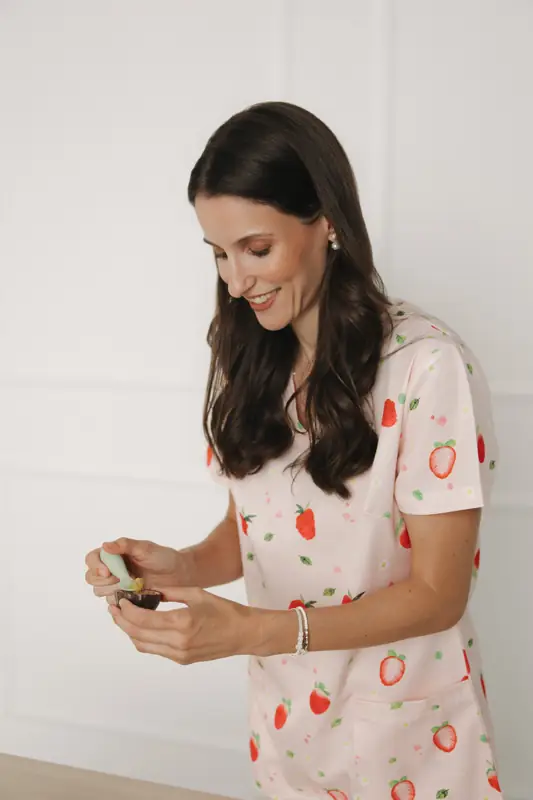
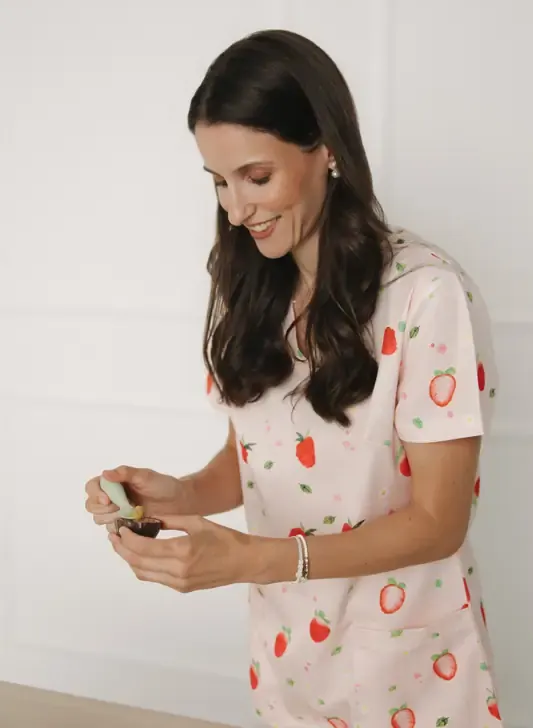
ana lp4 r12b: sobre a ana — 4 fotos regeneradas sem headroom acima da cabeca

diff --git a/assets/style.css b/assets/style.css
@@ -862,6 +862,11 @@ html{background:#F5EEE7}
    para o glifo branco manter 3:1+ (grafico decorativo, aria-hidden) --- */
 .ind-item:nth-child(even) .ind-ico{background:linear-gradient(135deg,#CB7244 0%,#B96136 100%);color:#fff}
 .ind-item:nth-child(even) .ind-ico svg{stroke:#fff}
+
+/* --- r12b item 5 (ref 21): Sobre a Ana — espaco acima da cabeca removido:
+   as 4 fotos (ana-p07/09/10/11) regeneradas com corte de topo (13-33% de
+   headroom no original; agora a cabeca fica a ~30px do topo da imagem;
+   cover + object-position:center top encaixa na vertical) --- */
 .txt-grad{background:linear-gradient(120deg,#E58960 0%,#C0643F 52%,#B96A75 100%);-webkit-background-clip:text;background-clip:text;-webkit-text-fill-color:transparent;color:#B96136}
 /* botoes principais: familia coral-esc da LP2v2 (branco/#9A4557 7,2:1 · branco/#A85565 5,1:1) */
 .btn{background:linear-gradient(135deg,#A85565 0%,#9A4557 45%,#823A48 100%);outline-color:rgba(154,69,87,.30);box-shadow:0 10px 28px rgba(176,92,56,.32),0 0 0 0 rgba(189,98,115,.55)}
